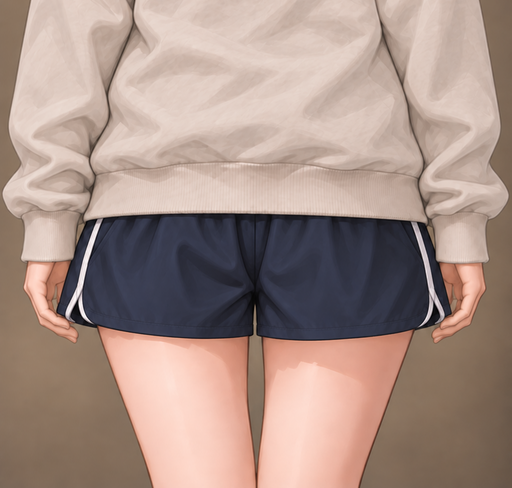
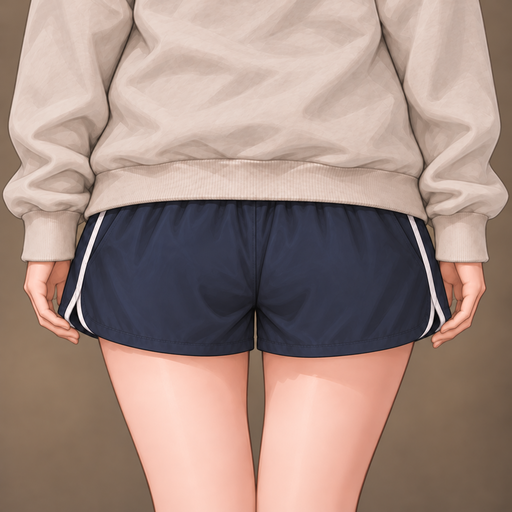
修订下装近景与腰臀方向结构 172

diff --git a/wardrobe-samples-illustrated/正式素材/下装/README.md b/wardrobe-samples-illustrated/正式素材/下装/README.md
@@ -17,7 +17,7 @@
 | 水洗牛仔短裙 · 背面 | [查看图片](水洗牛仔短裙/背面.png) | 512x512 | 下装修订：已上传，待视觉复核。 |
 | 运动短裤 · 正面 | [查看图片](运动短裤/正面.png) | 512x350 | 修订：仅纯裁切收近正面镜头，保留同套下装完整前片和双手；人物服装无重绘。 |
 | 运动短裤 · 侧面 | [查看图片](运动短裤/侧面.png) | 512x512 | 下装修订：已上传，待视觉复核。 |
-| 运动短裤 · 背面 | [查看图片](运动短裤/背面.png) | 512x488 | 已自检：款式、对应视角、人物比例与灰调厚涂近景。纯裁切为同套装运动短裤背面近景，保留完整双手。 |
+| 运动短裤 · 背面 | [查看图片](运动短裤/背面.png) | 512x512 | 下装修订：已上传，待视觉复核。 |
 
 ## 按款式查找
 

diff --git a/wardrobe-samples-illustrated/正式素材/下装/运动短裤/README.md b/wardrobe-samples-illustrated/正式素材/下装/运动短裤/README.md
@@ -8,6 +8,6 @@
 | --- | --- | --- | --- | --- |
 | 共用 | 正面 | [查看](正面.png) | 512x350 | 修订：仅纯裁切收近正面镜头，保留同套下装完整前片和双手；人物服装无重绘。 |
 | 共用 | 侧面 | [查看](侧面.png) | 512x512 | 下装修订：已上传，待视觉复核。 |
-| 共用 | 背面 | [查看](背面.png) | 512x488 | 已自检：款式、对应视角、人物比例与灰调厚涂近景。纯裁切为同套装运动短裤背面近景，保留完整双手。 |
+| 共用 | 背面 | [查看](背面.png) | 512x512 | 下装修订：已上传，待视觉复核。 |
 
 [统一制作规范](../../../制作规范.md)

diff --git a/wardrobe-samples-illustrated/README.md b/wardrobe-samples-illustrated/README.md
@@ -253,6 +253,7 @@
 
 
 
+
 ## 正式素材进度
 
 已生成独立服装素材 **185 / 185** 张、独立人物锚点 **10 / 10** 张。
